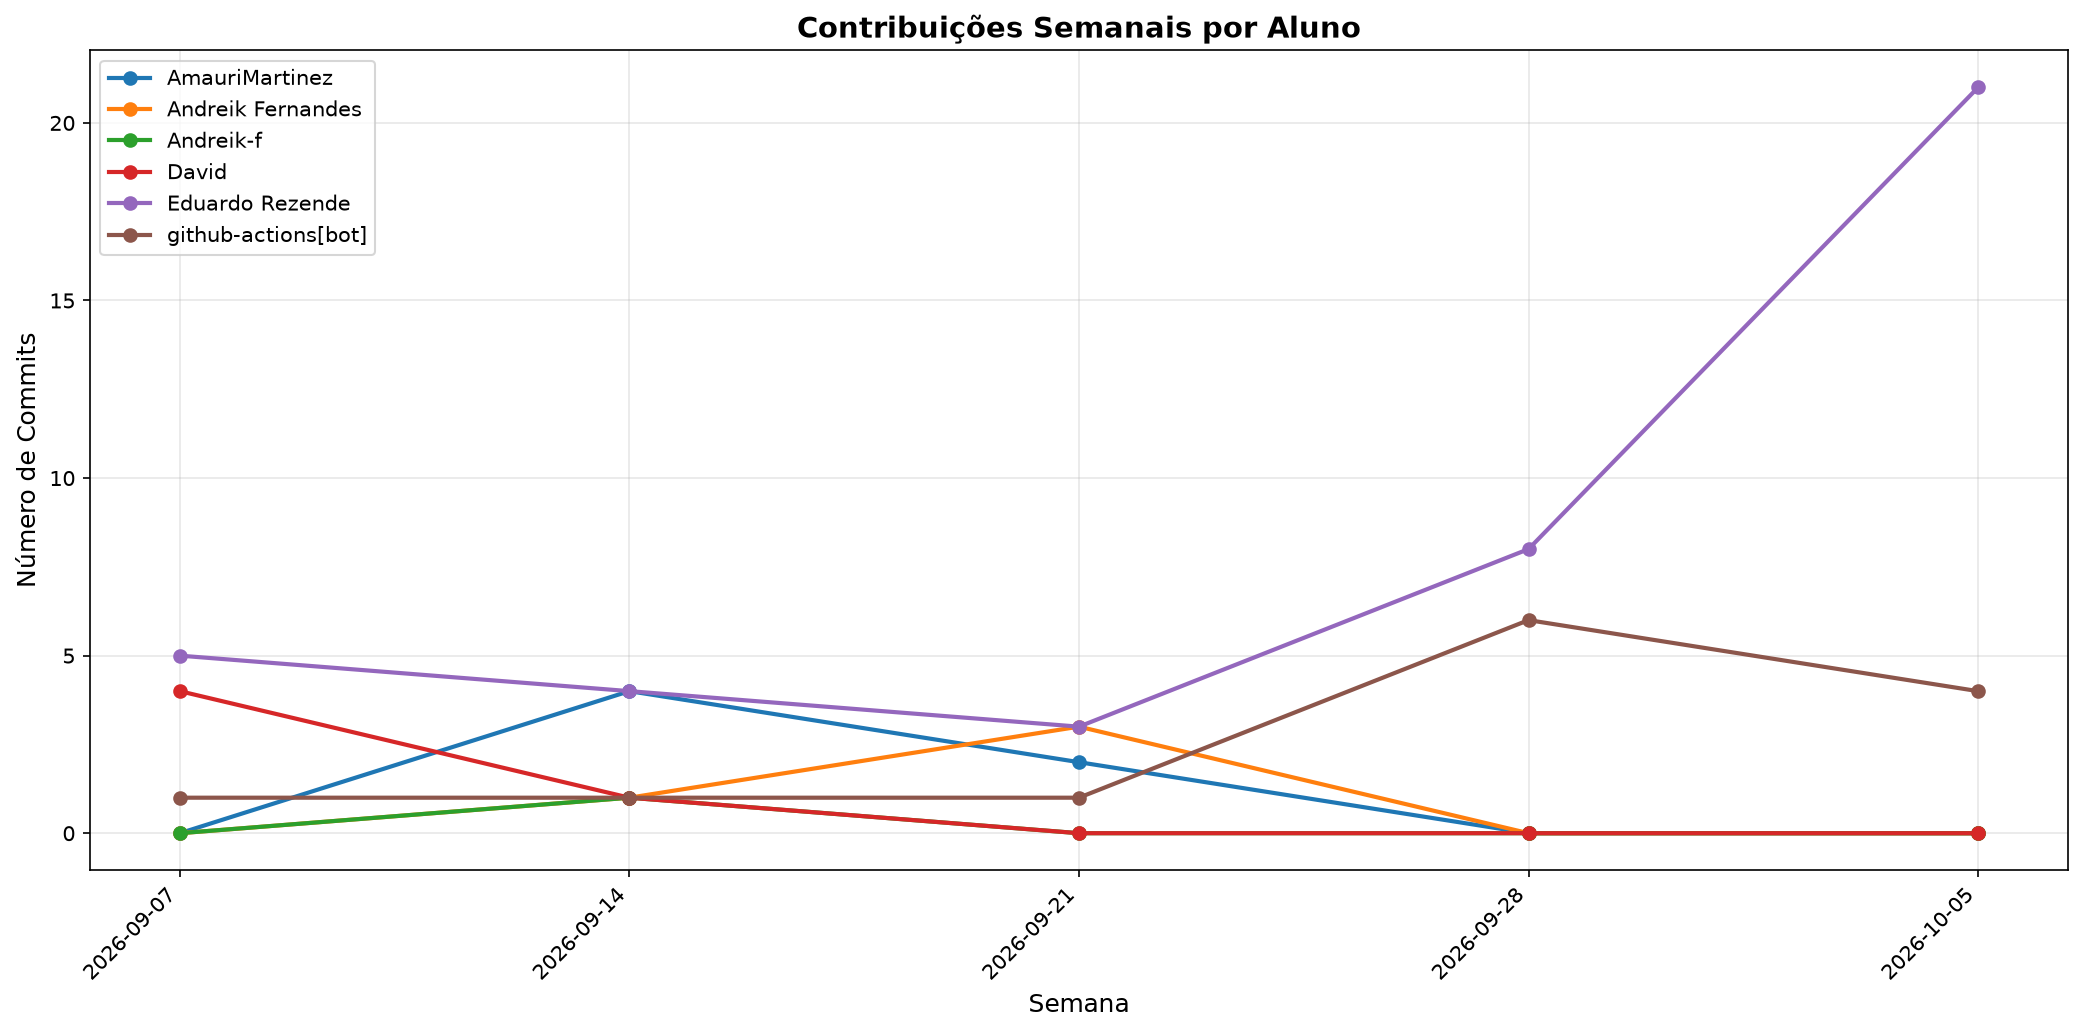
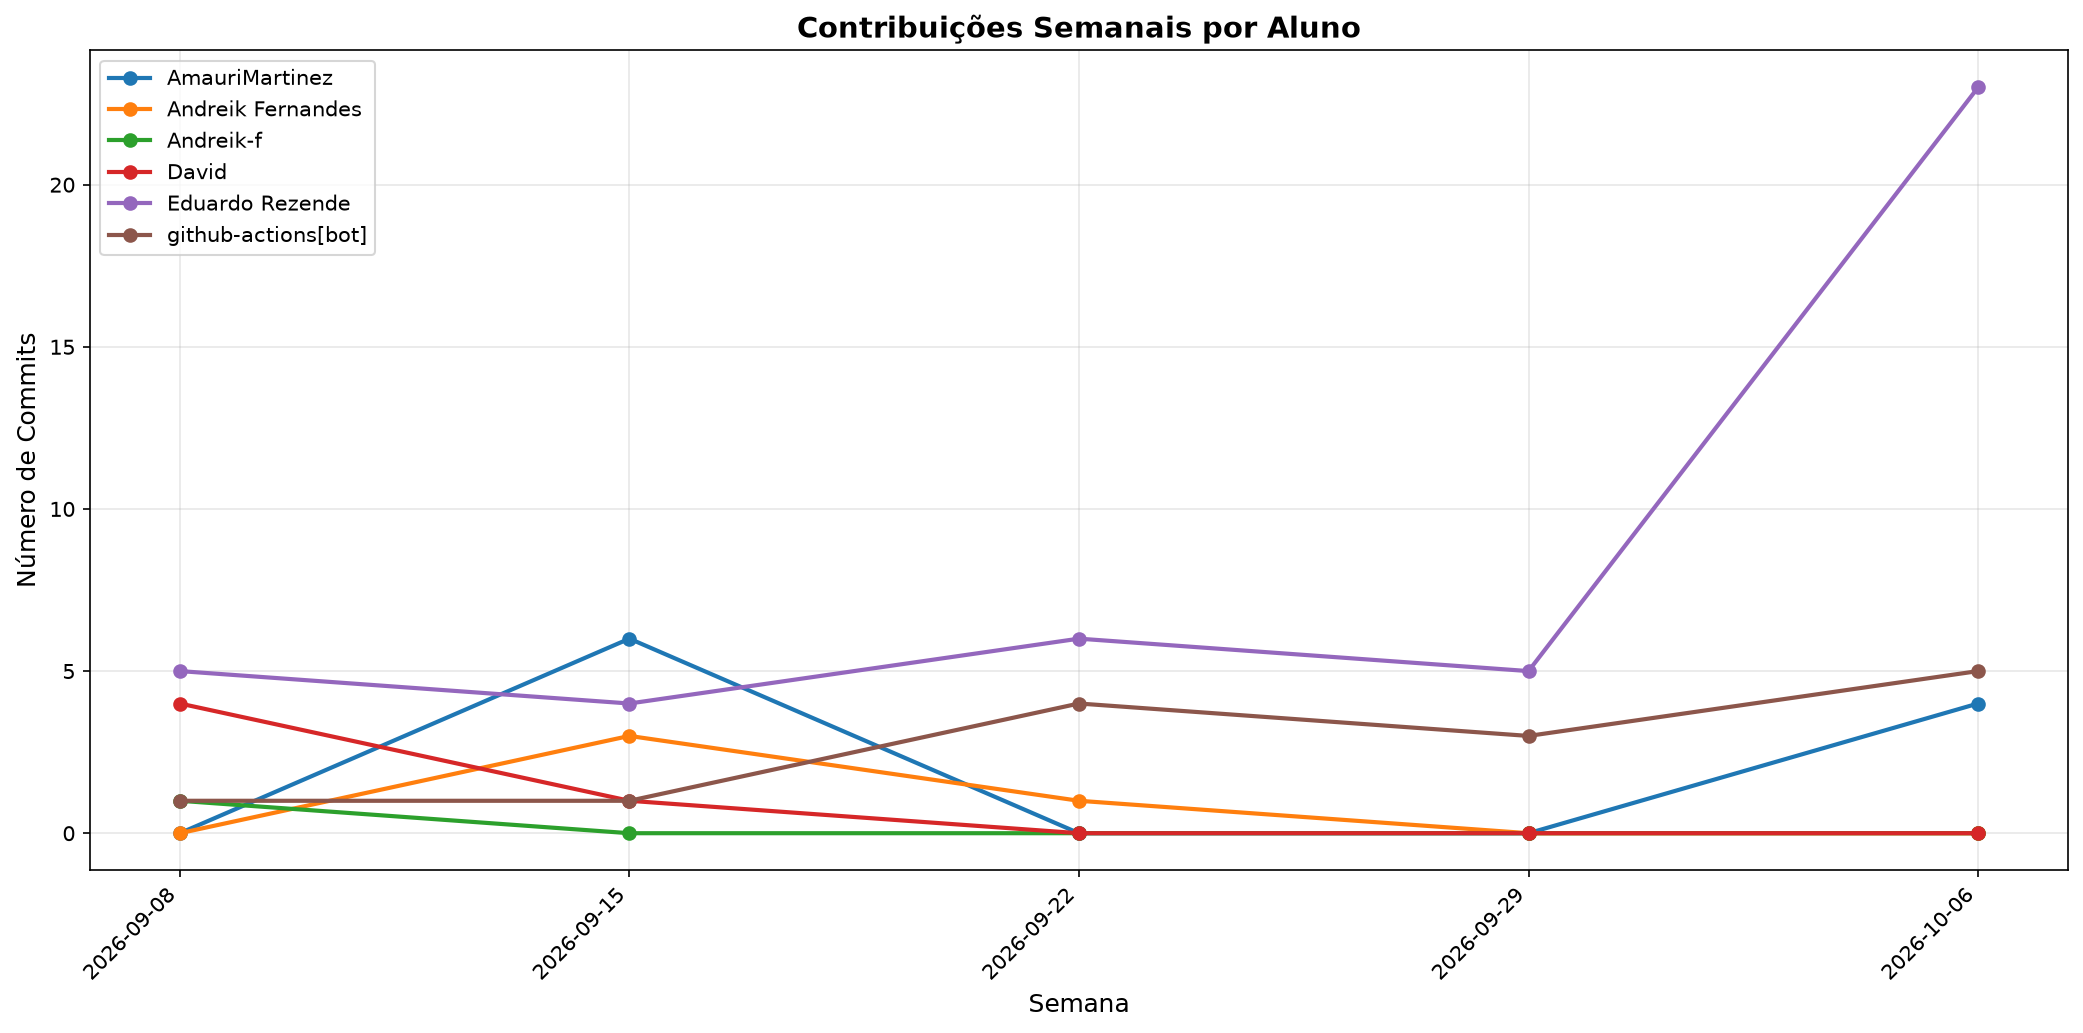
📊 Atualizar relatório de contribuições [skip ci]

diff --git a/documentos/CONTRIBUTION_REPORT.md b/documentos/CONTRIBUTION_REPORT.md
@@ -1,6 +1,6 @@
 # 📊 Relatório de Contribuições do Projeto
 
-**Última atualização:** 12/10/2026 00:39
+**Última atualização:** 13/10/2026 19:42
 
 ---
 
@@ -8,25 +8,25 @@
 
 | Aluno               |   Commits |   Linhas+ |   Linhas- |   Arquivos |   Docs Commits |   Docs Arquivos |
 |---------------------|-----------|-----------|-----------|------------|----------------|-----------------|
-| AmauriMartinez      |         6 |       563 |        81 |         18 |              0 |               0 |
+| AmauriMartinez      |        10 |       832 |        85 |         27 |              0 |               0 |
 | Andreik Fernandes   |         4 |       958 |         4 |          7 |              0 |               0 |
 | Andreik-f           |         1 |        30 |         0 |          2 |              0 |               0 |
 | David               |         5 |       810 |         2 |         24 |              2 |               1 |
-| Eduardo Rezende     |        41 |     87603 |     41903 |        386 |              4 |               1 |
-| github-actions[bot] |        13 |       124 |        68 |          3 |             13 |               1 |
+| Eduardo Rezende     |        43 |     87985 |     42133 |        386 |              4 |               1 |
+| github-actions[bot] |        14 |       131 |        75 |          3 |             14 |               1 |
 
 
 ## 📅 Contribuições Semanais (Todo o Semestre)
 
-**2026-10-05**: Eduardo Rezende: 21, github-actions[bot]: 4
+**2026-10-06**: AmauriMartinez: 4, Eduardo Rezende: 23, github-actions[bot]: 5
 
-**2026-09-28**: Eduardo Rezende: 8, github-actions[bot]: 6
+**2026-09-29**: Eduardo Rezende: 5, github-actions[bot]: 3
 
-**2026-09-21**: AmauriMartinez: 2, Andreik Fernandes: 3, Eduardo Rezende: 3, github-actions[bot]: 1
+**2026-09-22**: Andreik Fernandes: 1, Eduardo Rezende: 6, github-actions[bot]: 4
 
-**2026-09-14**: AmauriMartinez: 4, Andreik Fernandes: 1, Andreik-f: 1, David: 1, Eduardo Rezende: 4, github-actions[bot]: 1
+**2026-09-15**: AmauriMartinez: 6, Andreik Fernandes: 3, David: 1, Eduardo Rezende: 4, github-actions[bot]: 1
 
-**2026-09-07**: David: 4, Eduardo Rezende: 5, github-actions[bot]: 1
+**2026-09-08**: Andreik-f: 1, David: 4, Eduardo Rezende: 5, github-actions[bot]: 1
 
 
 
